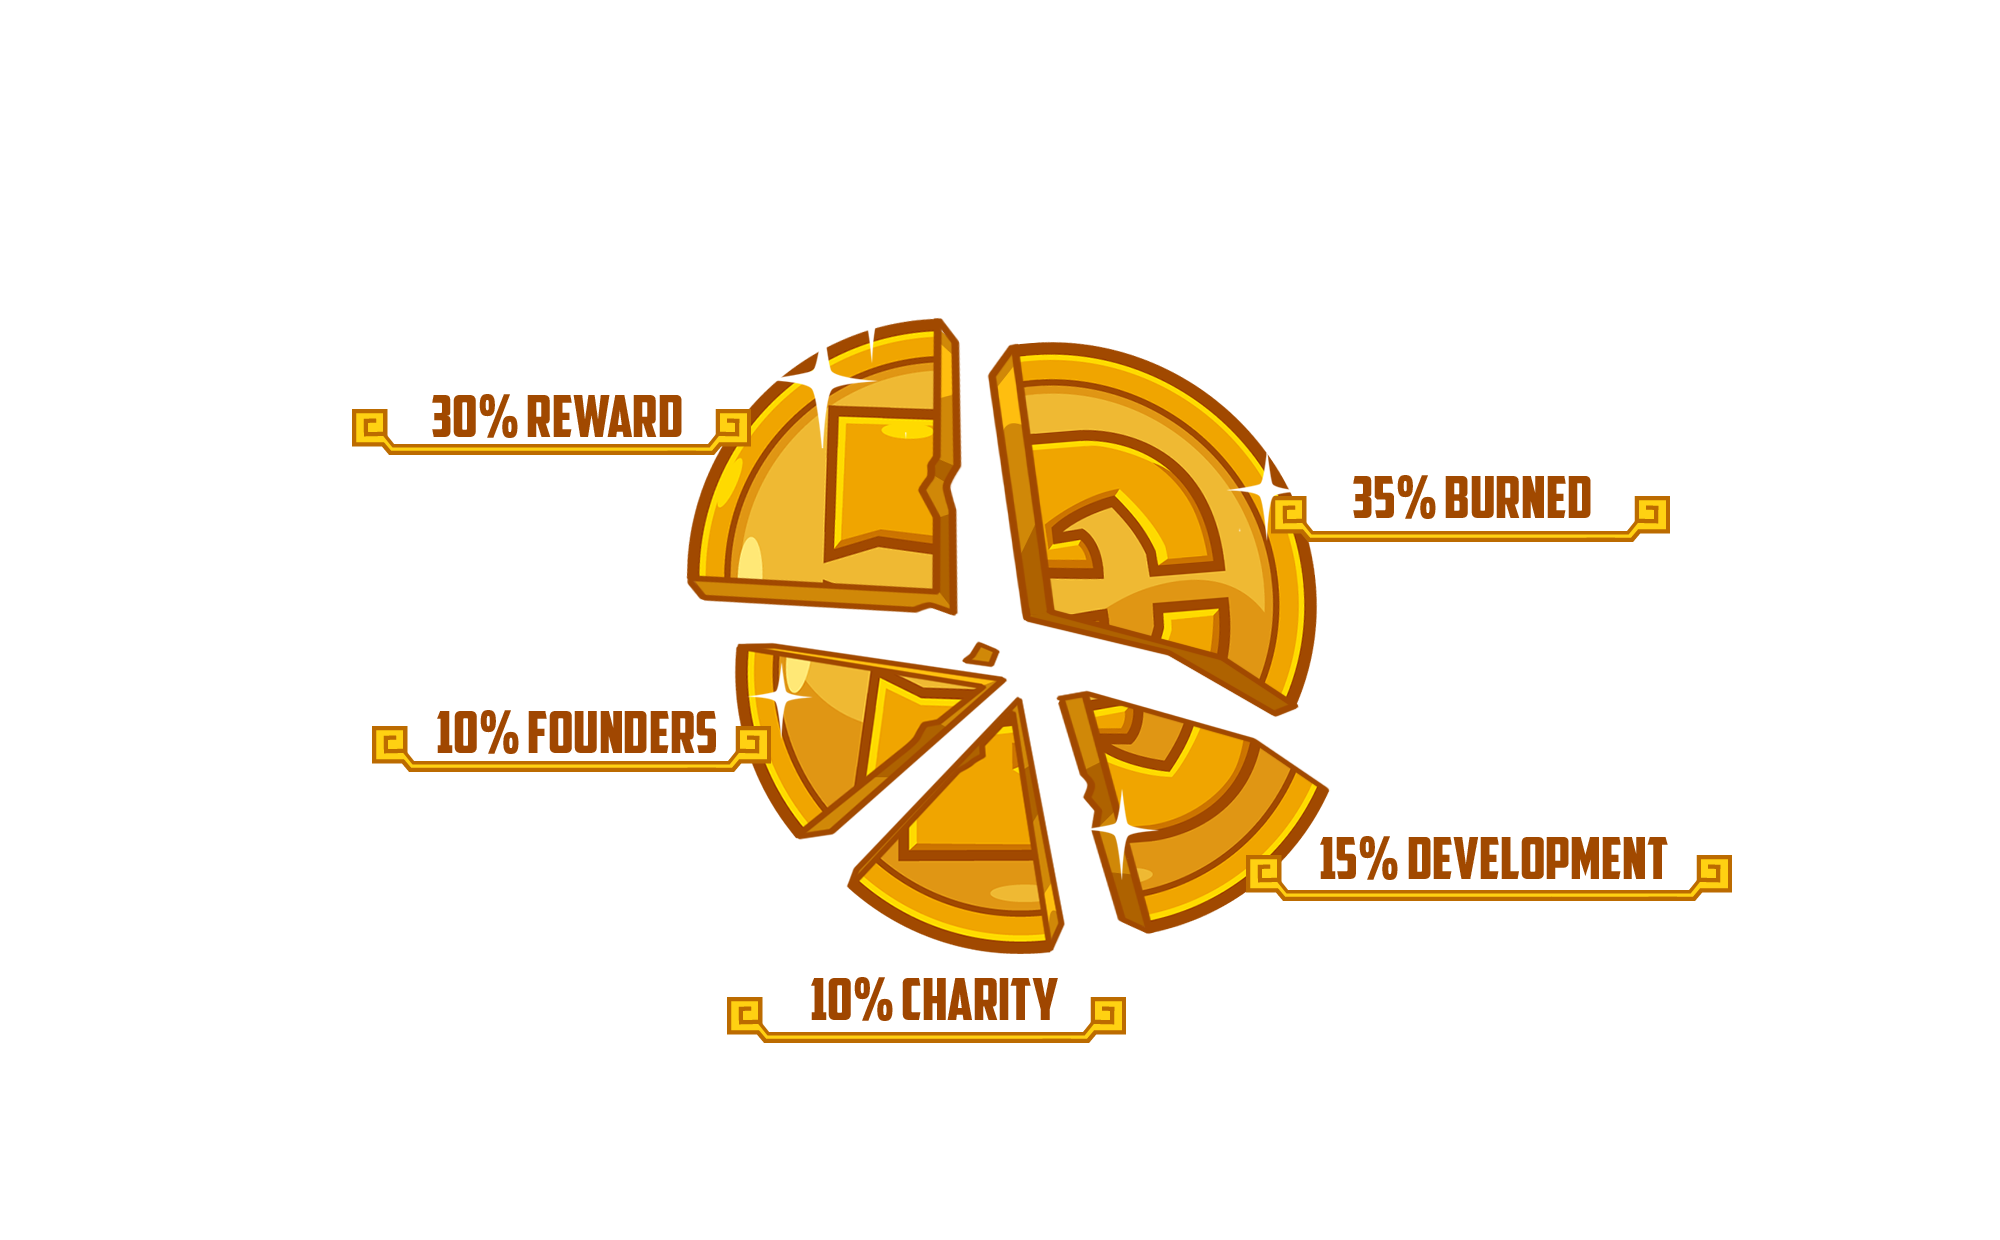
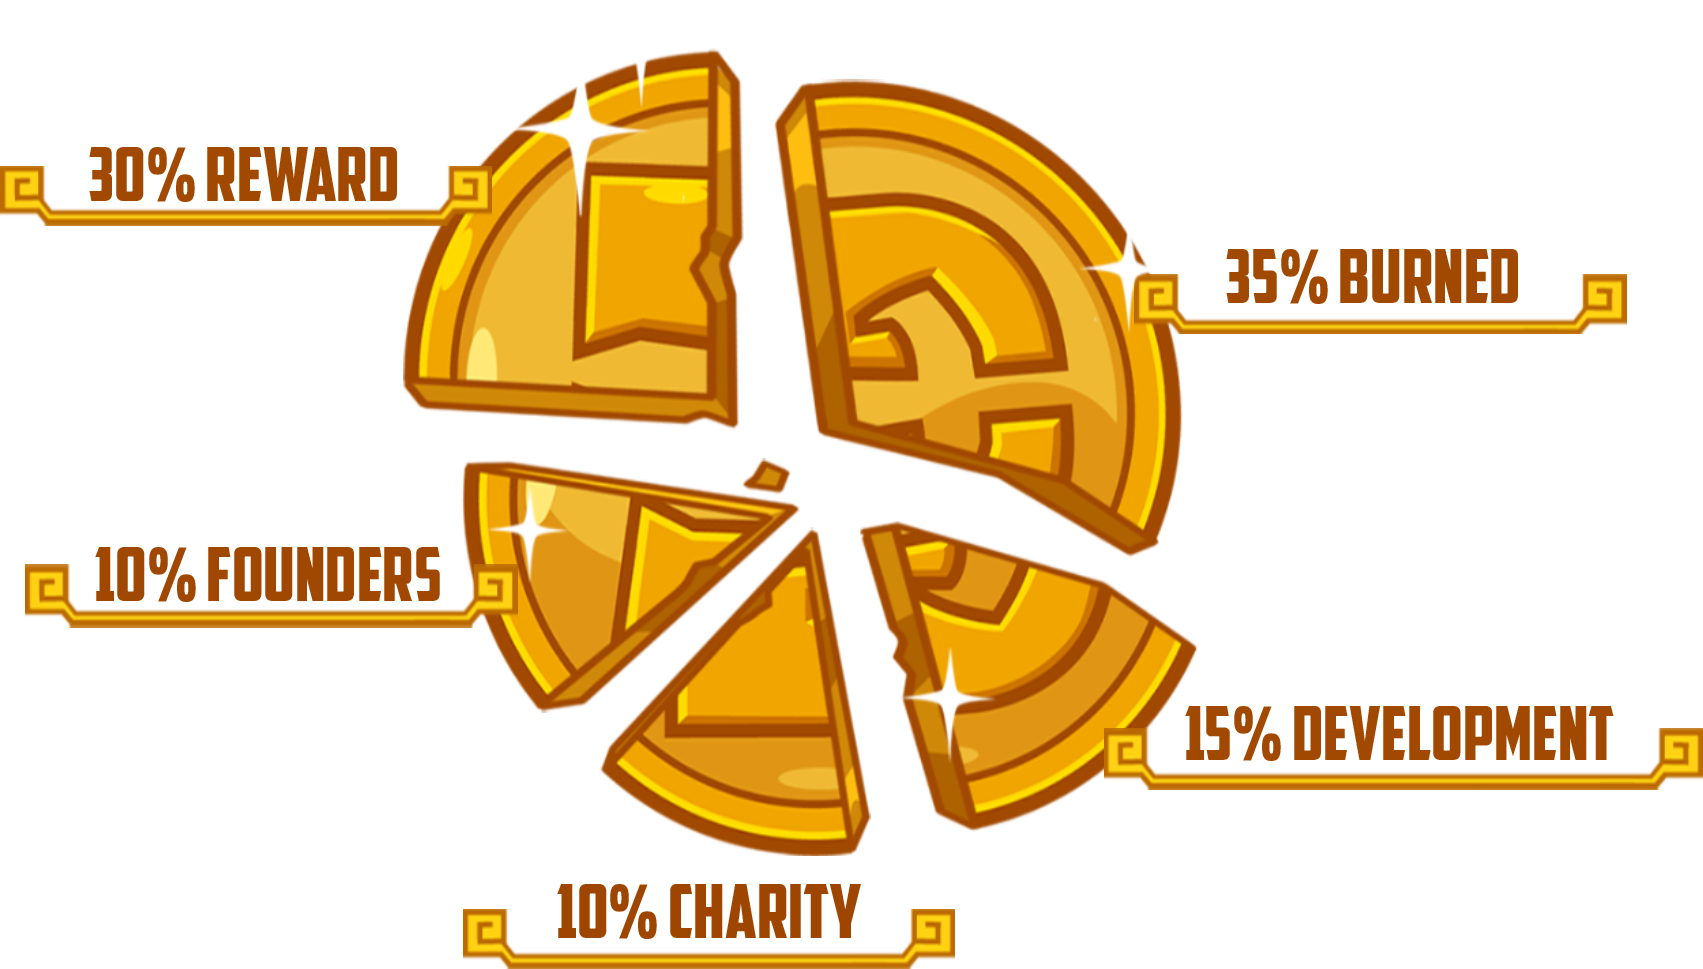
update

diff --git a/src/pages/Itempage.js b/src/pages/Itempage.js
@@ -40,6 +40,7 @@ export default function Inventorypage() {
   const { library, account } = useEthers();
   const [ownedCharacter, setOwnedCharacter] = useState();
   const [ownerOfCharacter, setOwnerOfCharacter] = useState();
+  const [statsOfCharacter, setStatsOfCharacter] = useState();
   const signer = library?.getSigner();
   const DwarCharacterContract = getDwarCharacterContract(signer);
 
@@ -51,19 +52,24 @@ export default function Inventorypage() {
           0
         );
         const OwnerOfCharacter = await DwarCharacterContract.ownerOf(id);
+        const StatsOfCharacter = await DwarCharacterContract.getItemProperty(
+          id
+        );
+        console.log(StatsOfCharacter)
 
         setOwnedCharacter(formatBigNumber(OwnedCharacter));
         setOwnerOfCharacter(OwnerOfCharacter);
+        setStatsOfCharacter(StatsOfCharacter);
       } catch (error) {
         setOwnedCharacter(null);
         setOwnerOfCharacter(null);
       }
     };
     if (account) fetchData();
-  }, [DwarCharacterContract, account, id]);
+  }, [account, id]);
 
   const isOwner = account === ownerOfCharacter;
-  console.log(isOwner);
+  console.log(statsOfCharacter);
   return (
     <Box sx={{ background: "#2e311e", mt: "-146px" }}>
       <Container maxWidth="xl" sx={{ pt: 20, pb: 10 }}>
@@ -185,10 +191,7 @@ export default function Inventorypage() {
             >
               <Typography>Breed Count: 0</Typography>
               <Typography>
-                Owner:{" "}
-                {ownerOfCharacter
-                  ? ownerOfCharacter
-                  : "Private"}
+                Owner: {ownerOfCharacter ? ownerOfCharacter : "Private"}
               </Typography>
             </Stack>
             <Typography color="#28f0a5">STATS</Typography>

diff --git a/src/pages/Homepage.js b/src/pages/Homepage.js
@@ -415,7 +415,11 @@ export default function Homepage() {
         </Stack>
         <Container maxWidth="xl">
           <Stack direction="row" justifyContent="center" sx={{ mb: 10 }}>
-            <Box component="img" src="/tokenomics/tokenomic.png" />
+            <Box
+              component="img"
+              src="/tokenomics/tokenomic.png"
+              sx={{ width: "60%" }}
+            />
           </Stack>
         </Container>
       </Stack>
@@ -428,9 +432,11 @@ export default function Homepage() {
           backgroundSize: "contained",
         }}
       >
-        <Stack direction="row" justifyContent="center" sx={{ mt: 20, mb: 25 }}>
-         
-        </Stack>
+        <Stack
+          direction="row"
+          justifyContent="center"
+          sx={{ mt: 20, mb: 25 }}
+        ></Stack>
       </Stack>
     </Box>
   );
